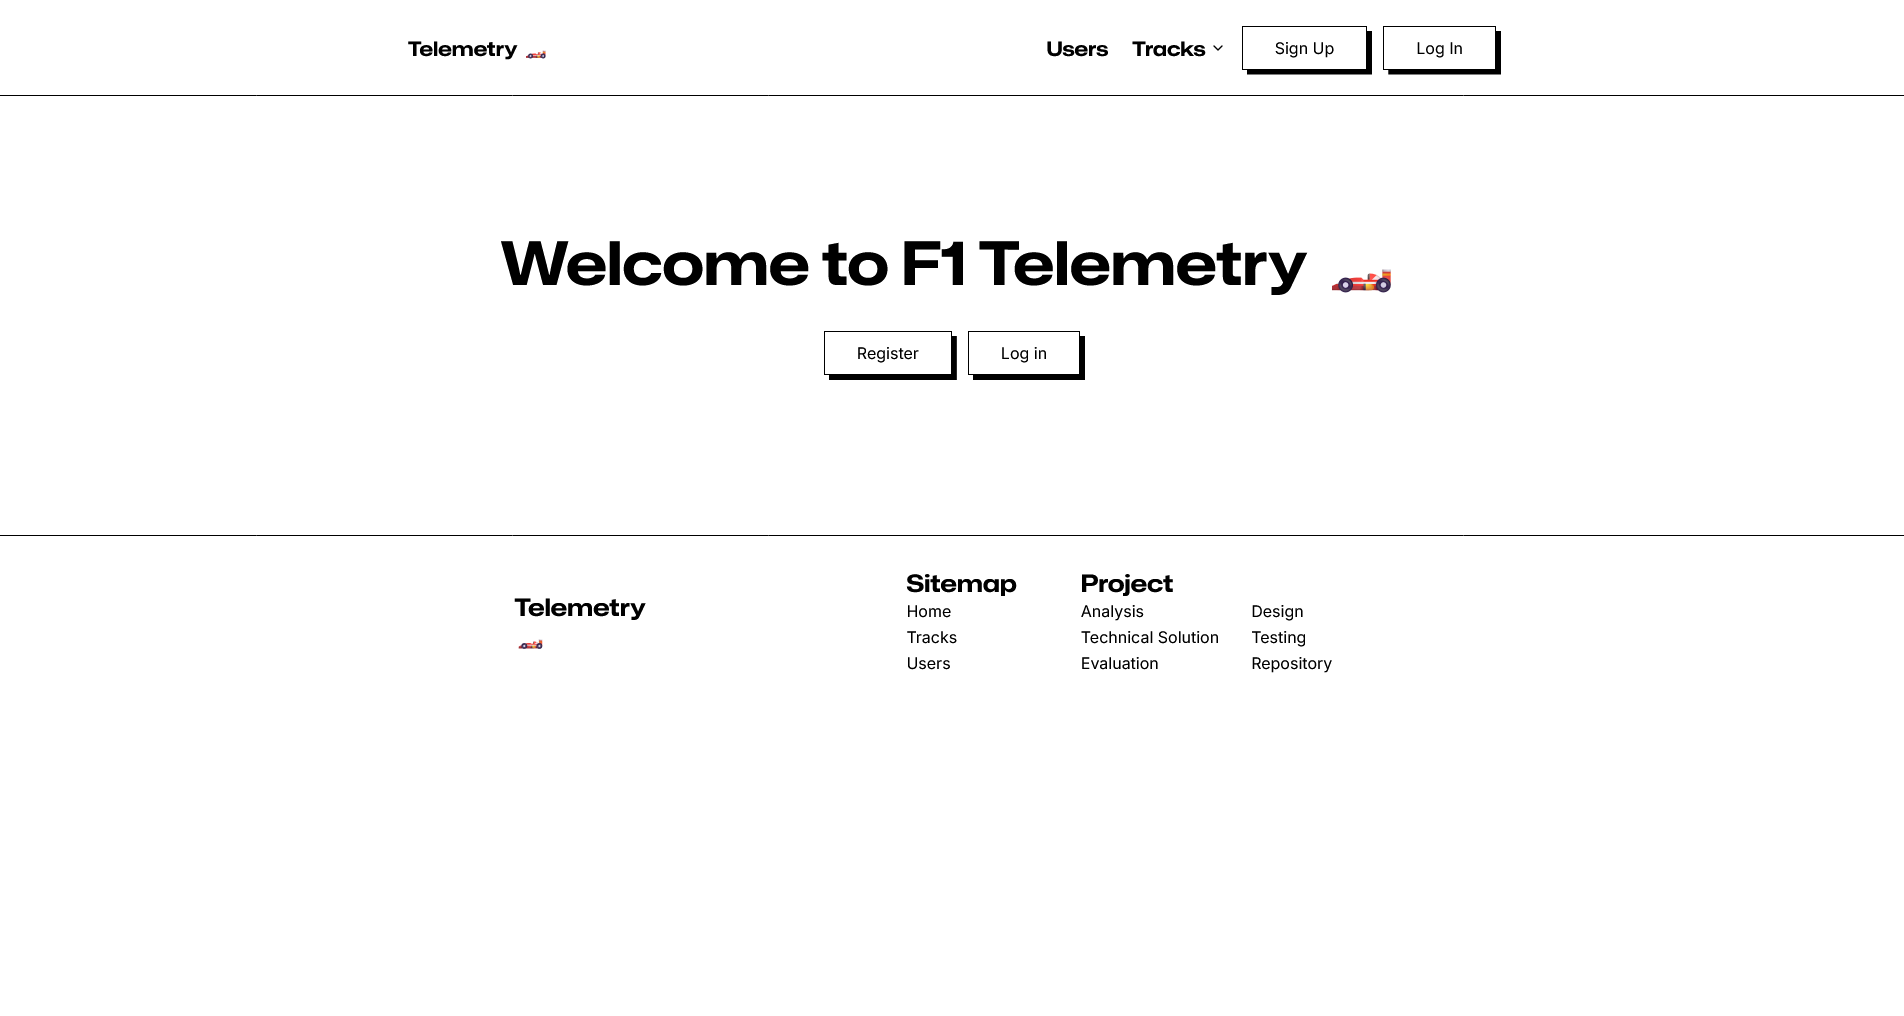
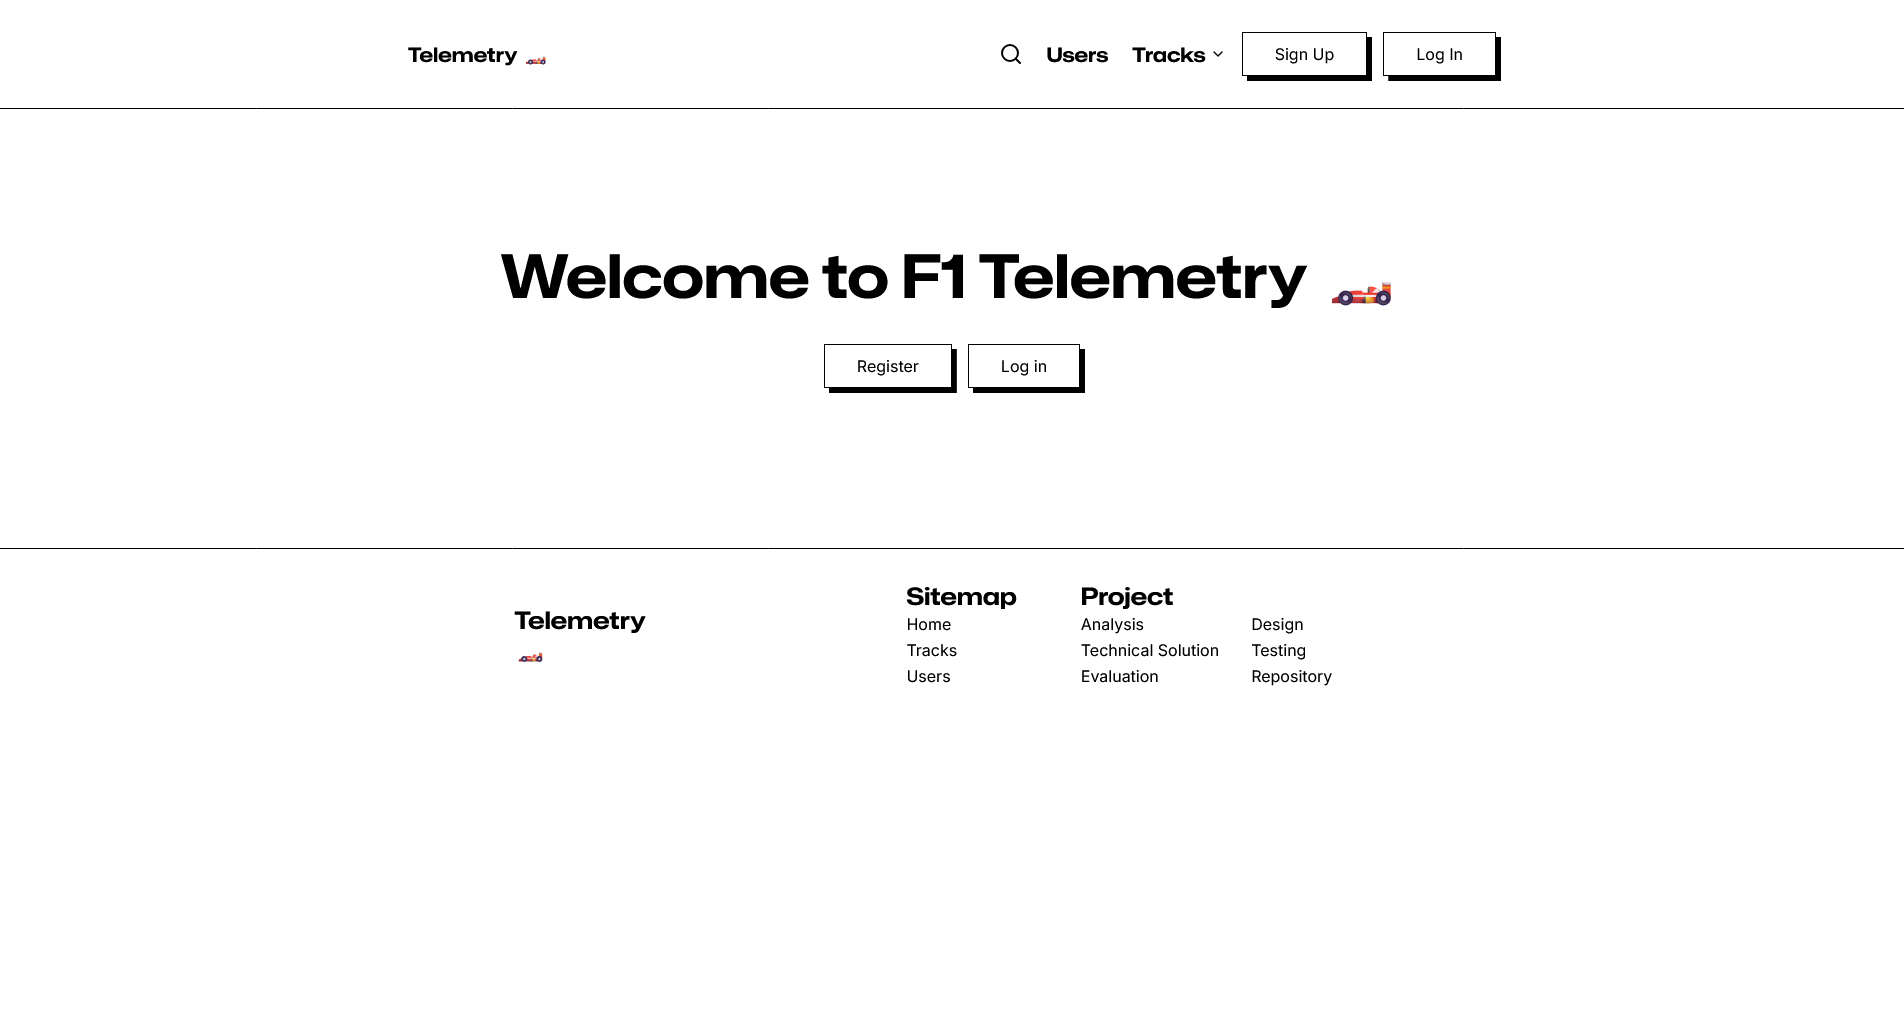
lots of commits

diff --git a/apps/desktop/src/routes/+page.svelte b/apps/desktop/src/routes/+page.svelte
@@ -6,8 +6,9 @@
 	const store = new LazyStore('credentials.json');
 
 	let refreshToken = $state('');
+	let addr = $state('127.0.0.1:20777');
 	let response: TokenResponse | undefined = $state();
-	let payload: JWTPayload | undefined = $state();
+	let payload: JWTPayload | JWTError | undefined = $state();
 	let timeout: Timer | undefined = $state();
 
 	interface TokenResponse {
@@ -20,6 +21,10 @@
 		iat: number;
 		sub: string;
 		exp: number;
+	}
+
+	interface JWTError {
+		error: string;
 	}
 
 	function decodeJWT(jwt: string): JWTPayload {
@@ -48,13 +53,18 @@
 
 			await beginListen();
 		} catch (err) {
-			console.error(err);
+			await store.delete('refresh_token');
+			refreshToken = '';
+			payload = {
+				error: 'Invalid refresh token'
+			};
+			timeout?.unref();
 		}
 	}
 
 	async function beginListen() {
 		try {
-			await invoke('listen_for_telemetry', { addr: '127.0.0.1:20777' });
+			await invoke('listen_for_telemetry', { addr });
 			console.log('Listening for telemetry');
 		} catch (err) {
 			console.error(err);
@@ -77,9 +87,13 @@
 	<h1 class="text-3xl font-bold">Telemetry</h1>
 
 	{#if payload}
-		<span>
-			Currently logged in as <strong>{payload.username}</strong>
-		</span>
+		{#if 'error' in payload}
+			<span>Invalid refresh token. Please try again.</span>
+		{:else}
+			<span>
+				Currently logged in as <strong>{payload.username}</strong>
+			</span>
+		{/if}
 	{/if}
 
 	<div>
@@ -87,6 +101,17 @@
 			onsubmit={(e) => authenticate(e)}
 			class="flex max-w-md flex-col items-center space-y-8 p-4"
 		>
+			<label class="flex flex-col">
+				<span class="font-semibold">Listen Address</span>
+				<div class="space-x-2">
+					<input
+						bind:value={addr}
+						required
+						class="border-black shadow-[5px_5px_#000] transition-all focus:border-black focus:ring-black focus:outline-0"
+					/>
+					<button type="submit" class="button-box">Save</button>
+				</div>
+			</label>
 			<label class="flex flex-col">
 				<span class="font-semibold">Refresh Token</span>
 				<div class="space-x-2">

diff --git a/apps/web/src/lib/alg/assist.ts b/apps/web/src/lib/alg/assist.ts
@@ -1,0 +1,68 @@
+import type { Telemetry } from "$lib/types";
+
+export function decodeAssists(mask: number): Telemetry.Assists {
+	return {
+		steering_assist: Boolean(mask & 0b0000_0000_0000_0001 ? 1 : 0),
+		braking_assist: (mask & 0b0000_0000_0000_0110) >> 1,
+		gearbox_assist: (mask & 0b0000_0000_0001_1000) >> 3,
+		pit_assist: Boolean((mask & 0b0000_0000_0010_0000) >> 5),
+		pit_release_assist: Boolean((mask & 0b0000_0000_0100_0000) >> 6),
+		ers_assist: Boolean((mask & 0b0000_0000_1000_0000) >> 7),
+		drs_assist: Boolean((mask & 0b0000_0001_0000_0000) >> 8),
+		dynamic_racing_line: (mask & 0b0000_0110_0000_0000) >> 10,
+		traction_control: (mask & 0b0001_1000_0000_0000) >> 12,
+		anti_lock_brakes: Boolean((mask & 0b0010_0000_0000_0000) !== 0), // convert to boolean
+	};
+}
+
+export function formatAssist(name: string, value: number | boolean) {
+	if (typeof value === "boolean") {
+		return `${name}: ${value ? "On" : "Off"}`;
+	} else if (name === "Dynamic Racing Line") {
+		switch (value) {
+			case 0:
+				return `${name}: Off`;
+			case 1:
+				return `${name}: Corners Only`;
+			case 2:
+				return `${name}: Full`;
+			default:
+				return `${name}: Unknown (${value})`;
+		}
+	} else if (name === "Braking Assist") {
+		switch (value) {
+			case 0:
+				return `${name}: Off`;
+			case 1:
+				return `${name}: Low`;
+			case 2:
+				return `${name}: Medium`;
+			case 3:
+				return `${name}: High`;
+			default:
+				return `${name}: Unknown (${value})`;
+		}
+	} else if (name === "Gearbox Assist") {
+		switch (value) {
+			case 1:
+				return `Gearbox: Manual`;
+			case 2:
+				return `Gearbox: Manual With Suggested Gear`;
+			case 3:
+				return `Gearbox: Automatic`;
+			default:
+				return `Gearbox: Unknown (${value})`;
+		}
+	} else if (name === "Traction Control") {
+		switch (value) {
+			case 0:
+				return `${name}: Off`;
+			case 1:
+				return `${name}: Medium`;
+			case 2:
+				return `${name}: Full`;
+			default:
+				return `${name}: Unknown (${value})`;
+		}
+	}
+}

diff --git a/apps/web/src/lib/telemetry/session.svelte.ts b/apps/web/src/lib/telemetry/session.svelte.ts
@@ -1,3 +1,4 @@
+import { decodeAssists, formatAssist } from "$lib/alg/assist";
 import { quickSort } from "$lib/alg/sort";
 import type { Database } from "$lib/types";
 import { source } from "sveltekit-sse";
@@ -126,6 +127,23 @@ export class Session extends EventTarget {
 		const minutes = date.getMinutes();
 
 		return `${day.toString().padStart(2, "0")}/${month.toString().padStart(2, "0")}/${year} ${hours.toString().padStart(2, "0")}:${minutes.toString().padStart(2, "0")}`;
+	}
+
+	static formatAssists(lap: Omit<Database.Lap, "carTelemetryData" | "sessionUid">) {
+		let out: string[] = [];
+		let assists = decodeAssists(lap.assists);
+		for (const assist of Object.entries(assists)) {
+			const [assistName, assistValue] = assist;
+			const formattedName = assistName
+				.split("_")
+				.map((word) => word.charAt(0).toUpperCase() + word.slice(1))
+				.join(" ");
+			console.log(`assistName: ${assistName}, assistValue: ${assistValue}`);
+			if (assistValue !== false && assistValue !== 0) {
+				out.push(`${formatAssist(formattedName, assistValue)}`);
+			}
+		}
+		return out.join(", ");
 	}
 
 	#endSession(endDate: string | Date, totalLaps: number) {

diff --git a/apps/web/src/routes/+layout.svelte b/apps/web/src/routes/+layout.svelte
@@ -15,12 +15,9 @@
 		twemoji.parse(document.body, {
 			folder: "svg",
 			ext: ".svg",
-			// ignoring the error here because twemoji docs do the same thing as below
-			// see https://github.com/jdecked/twemoji#exclude-characters-v1
 			/* @ts-ignore */
 			callback: function (icon, options: { base: string; size: string; ext: string }) {
 				switch (icon) {
-					// race car emoji
 					case "1f3ce":
 						return false;
 				}
@@ -43,8 +40,8 @@
 	<Navbar {user} />
 {/if}
 
-<main class="flex flex-1 flex-col items-center overflow-auto">
-	<div class="flex w-full max-w-6xl px-2 py-8 sm:justify-center sm:px-4">
+<main class="z-0 flex w-full flex-col justify-center">
+	<div class="flex w-full max-w-6xl place-self-center px-2 py-8 sm:justify-center sm:px-4">
 		{@render children()}
 	</div>
 	<Footer />

diff --git a/apps/web/src/routes/tracks/[id]/+page.svelte b/apps/web/src/routes/tracks/[id]/+page.svelte
@@ -60,6 +60,7 @@
 						<th>S1</th>
 						<th>S2</th>
 						<th>S3</th>
+						<th class="hidden md:table-cell">Assists</th>
 					</tr>
 				</thead>
 				<tbody>
@@ -87,6 +88,9 @@
 							<td>{Session.formatSectorTime(lap.sector1TimeInMs)}</td>
 							<td>{Session.formatSectorTime(lap.sector2TimeInMs)}</td>
 							<td>{Session.formatSectorTime(lap.sector3TimeInMs)}</td>
+							<td class="hidden md:table-cell">
+								{Session.formatAssists(lap)}
+							</td>
 						</tr>
 					{/each}
 				</tbody>

diff --git a/apps/web/src/routes/session/[uid]/+page.svelte b/apps/web/src/routes/session/[uid]/+page.svelte
@@ -131,6 +131,7 @@
 						<th>S1</th>
 						<th>S2</th>
 						<th>S3</th>
+						<th class="hidden md:table-cell">Assists</th>
 						<th>Invalid?<sup>*</sup></th>
 					</tr>
 				</thead>
@@ -152,6 +153,9 @@
 							<td class={sectorClass(3, lap.sector3TimeInMs)}
 								>{Session.formatSectorTime(lap.sector3TimeInMs)}</td
 							>
+							<td class="hidden md:table-cell">
+								{Session.formatAssists(lap)}
+							</td>
 							<td class="w-fit">
 								{#if lap.lapInvalid}
 									<img

diff --git a/apps/web/src/lib/types.ts b/apps/web/src/lib/types.ts
@@ -100,6 +100,19 @@ export namespace Database {
 }
 
 export namespace Telemetry {
+	export interface Assists {
+		steering_assist: boolean;
+		braking_assist: number;
+		gearbox_assist: number;
+		pit_assist: boolean;
+		pit_release_assist: boolean;
+		ers_assist: boolean;
+		drs_assist: boolean;
+		dynamic_racing_line: number;
+		traction_control: number;
+		anti_lock_brakes: boolean;
+	}
+
 	export interface Session {
 		uid?: string;
 		playerCarIndex: number;

diff --git a/apps/web/src/hooks.server.ts b/apps/web/src/hooks.server.ts
@@ -18,7 +18,7 @@ export const handle: Handle = async ({ event, resolve }) => {
 		event.locals.session = null;
 
 		if (url.pathname.startsWith("/api/") && (!event.locals.user || !event.locals.session)) {
-			if (url.pathname.endsWith("telemetry/")) {
+			if (url.pathname.endsWith("/telemetry")) {
 				return resolve(event);
 			}
 			const authHeader = request.headers.get("Authorization");

diff --git a/apps/web/src/routes/tracks/[id]/+page.server.ts b/apps/web/src/routes/tracks/[id]/+page.server.ts
@@ -4,7 +4,7 @@ import { error } from "@sveltejs/kit";
 import type { PageServerLoad } from "./$types";
 import type { Database } from "$lib/types";
 
-type Lap = Omit<Database.Lap, "id" | "carTelemetryData" | "lapInvalid"> & {
+type Lap = Omit<Database.Lap, "carTelemetryData"> & {
 	user: Omit<Database.User, "avatar" | "hashedPassword" | "joinDate">;
 };
 

diff --git a/apps/web/src/lib/components/Navbar.svelte b/apps/web/src/lib/components/Navbar.svelte
@@ -145,7 +145,7 @@
 	</dialog>
 </div>
 
-<nav class="sticky top-0 flex h-24 w-full justify-center border-b bg-white">
+<nav class="sticky top-0 z-10 flex w-full justify-center border-b bg-white py-8">
 	<div id="nav-desktop" class="hidden max-w-6xl grow items-center justify-between px-8 md:flex">
 		<section>
 			<a

diff --git a/TESTING.md b/TESTING.md
@@ -1,0 +1,95 @@
+# What to test
+
+## Auth Forms
+
+### Register
+
+- Too short username
+- Too long username
+- Username with non alphanumerics
+- Password with no uppercase
+- Password with no lowercase
+- Password with no special
+- Password with no digit
+- Password too short
+- Password too long
+- Confirm password not equal to password
+- User gets registered and redirected to their page
+
+### Login
+
+- Non existing username doesnt log someone in
+- Validate that password wasn't stored plaintext in database (hashing working)
+
+## Settings
+
+- Form submits
+- Nothing populated in input on first time
+- User gets refresh token
+- Dialog and buttons change contents when revisiting (gen -> rotate)
+- Token copies to clipboard
+- Toast fires
+
+## Desktop App
+
+- Try invalid refresh token
+- Error message should display
+- Try valid refresh token
+- Should login
+- Specifying custom addr should change the addr
+- Use console to show things working
+
+## User page
+
+- Sessions should populate as they get started
+- Sessions should delete if they finish with 0 laps
+- New laps should populate automatically
+- User information should be correct
+- Historical sessions should be there
+
+## Users page
+
+- All users should display
+- Clicking a user should navigate to that user's page
+
+## Navbar
+
+- User search should navigate correctly
+- Clicking profile dropdown should present the dropdown
+- All nav dropdowns should work
+- Tracks should navigate to tracks
+
+## Tracks page
+
+- All track data should be accurate
+- Grid should display properly
+
+## Track page individual
+
+- Should display table correctly
+- Clicking a user should navigate them to their page
+- Lap times should be correct
+
+## Session
+
+- Verify that session cookie gets set
+- Verify expiry time
+
+## Telemetry Session
+
+- Restart the lap
+- Use a flashback
+- Invalidate the lap
+- Change assists mid lap
+- Complete a clean lap
+- Complete at least 5 (good regression)
+
+# Session page
+
+- Graphs only show up when session ends
+- Session page should live update
+- Purple sectors/lap are correct
+- ALL Graphs display correctly
+- Comparison works
+
+- ASSISTS DISPLAY CORRECTLY ON SITE IN ALL PLACES
